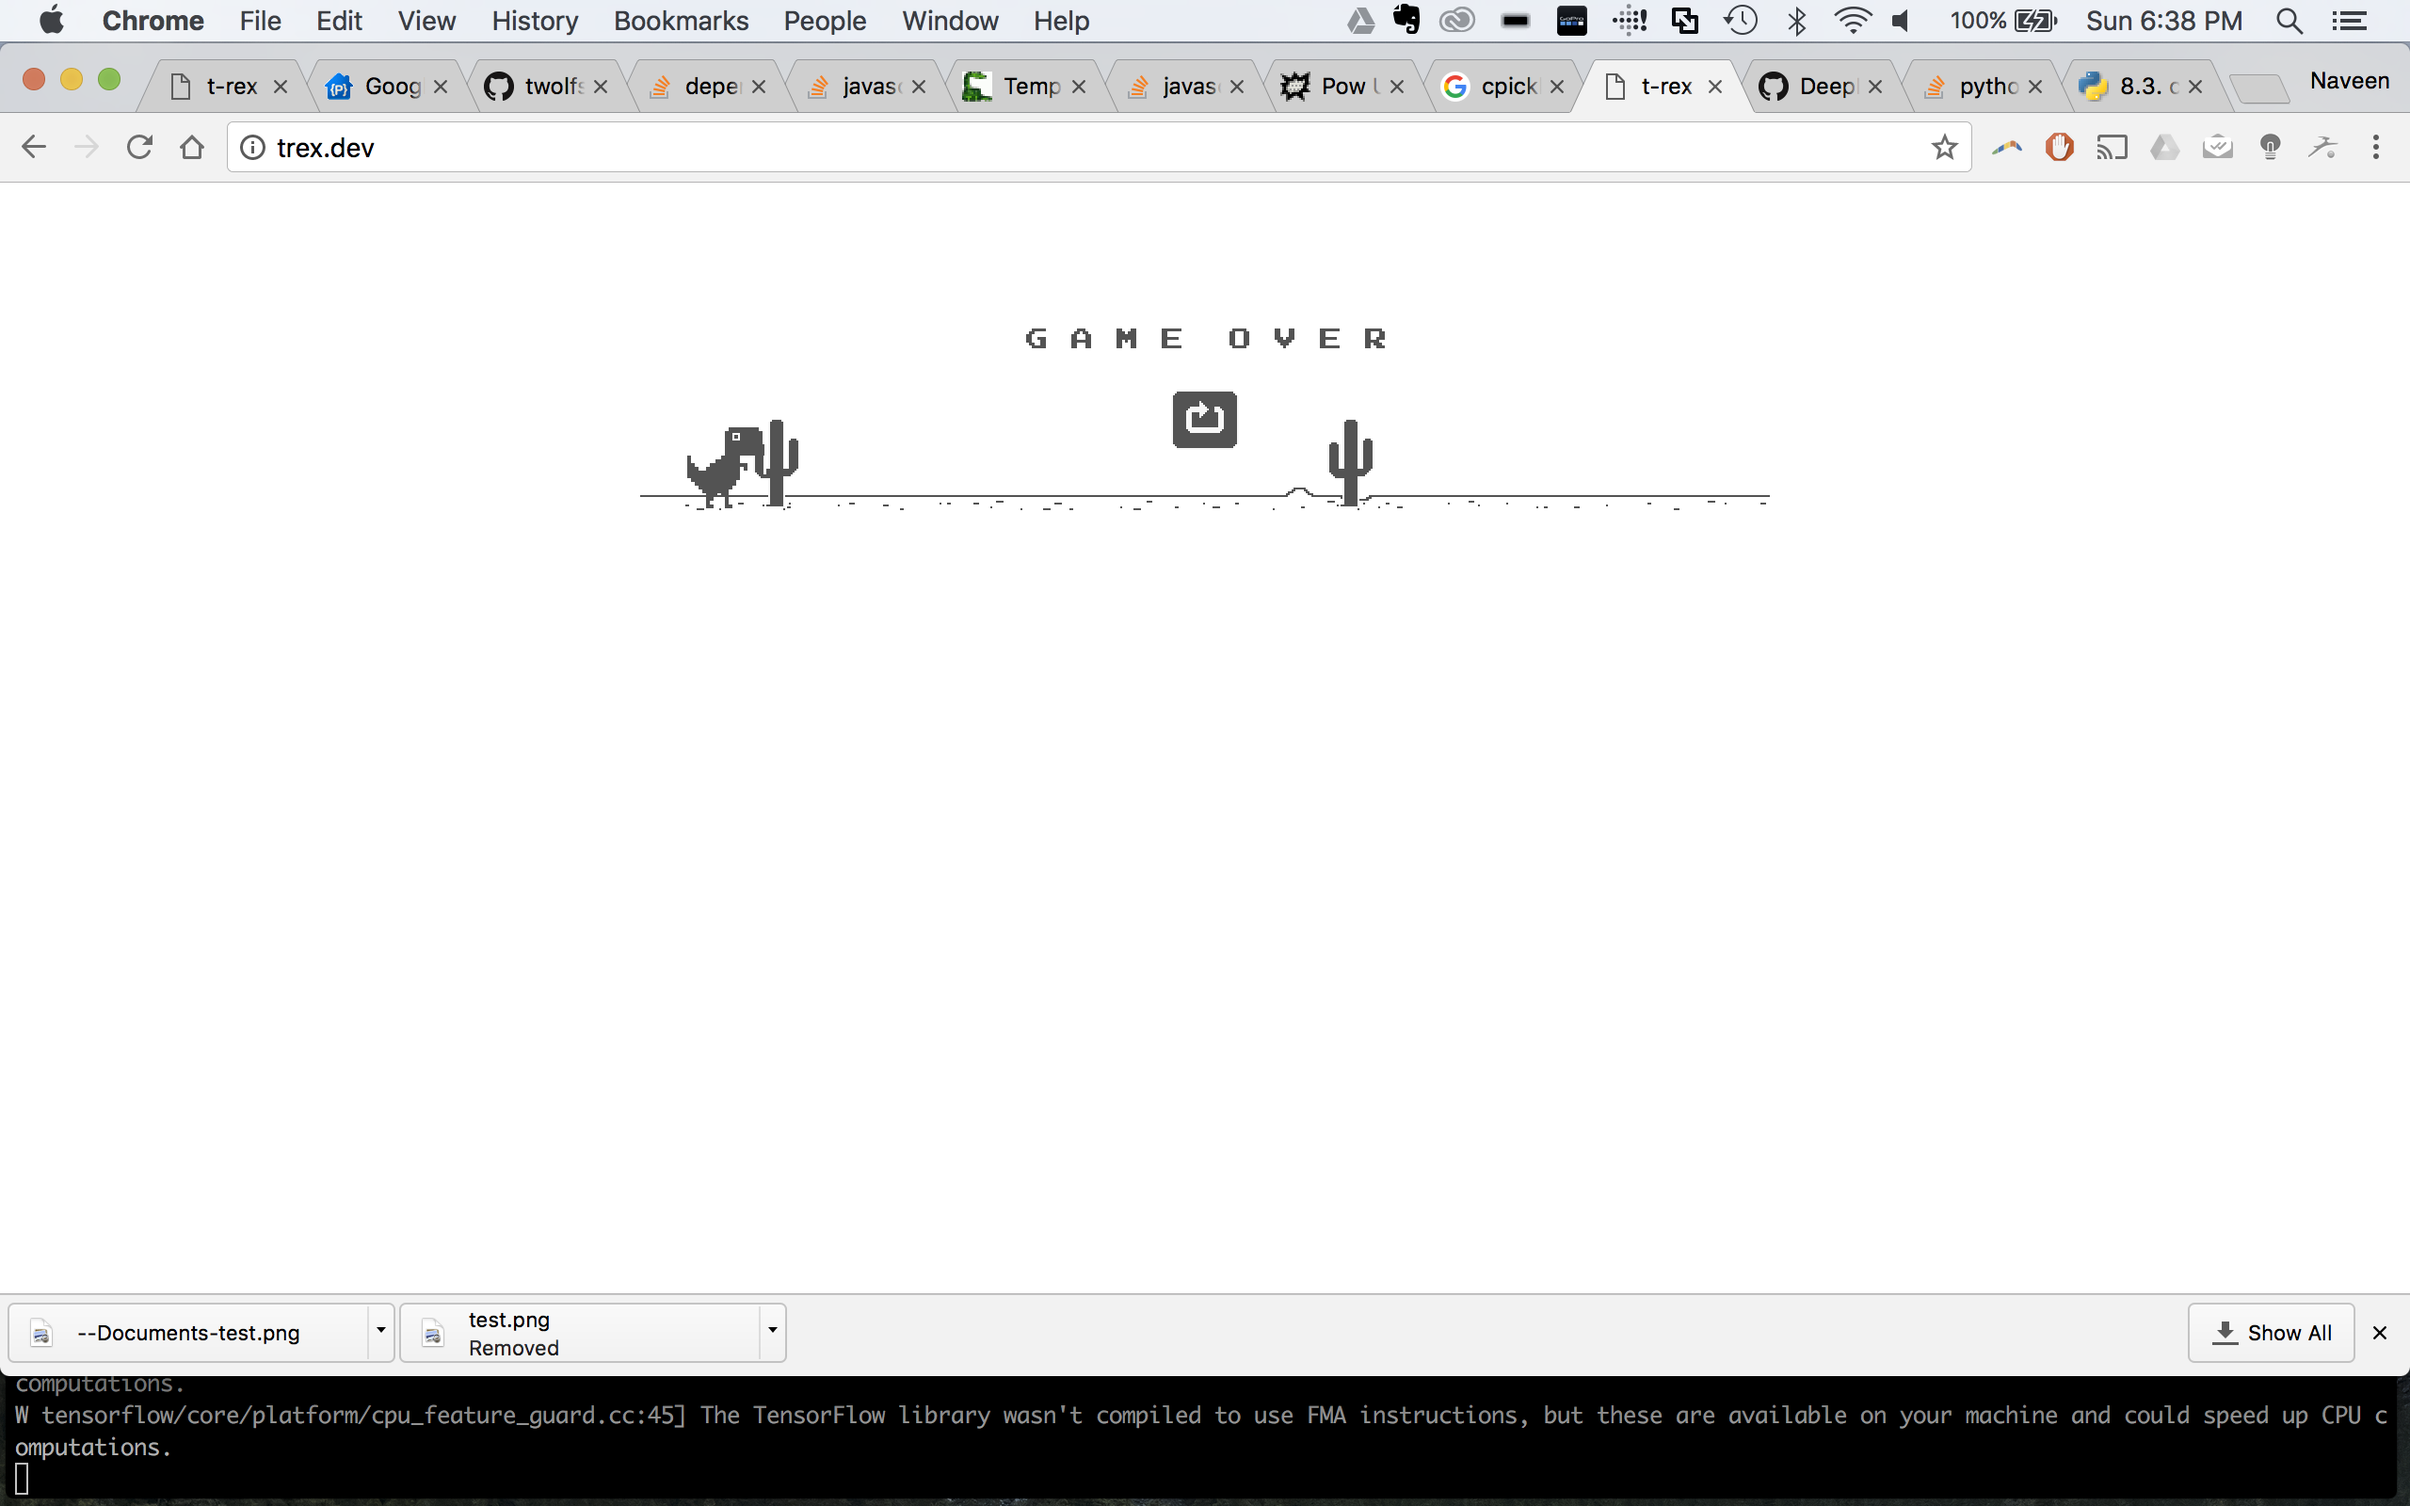
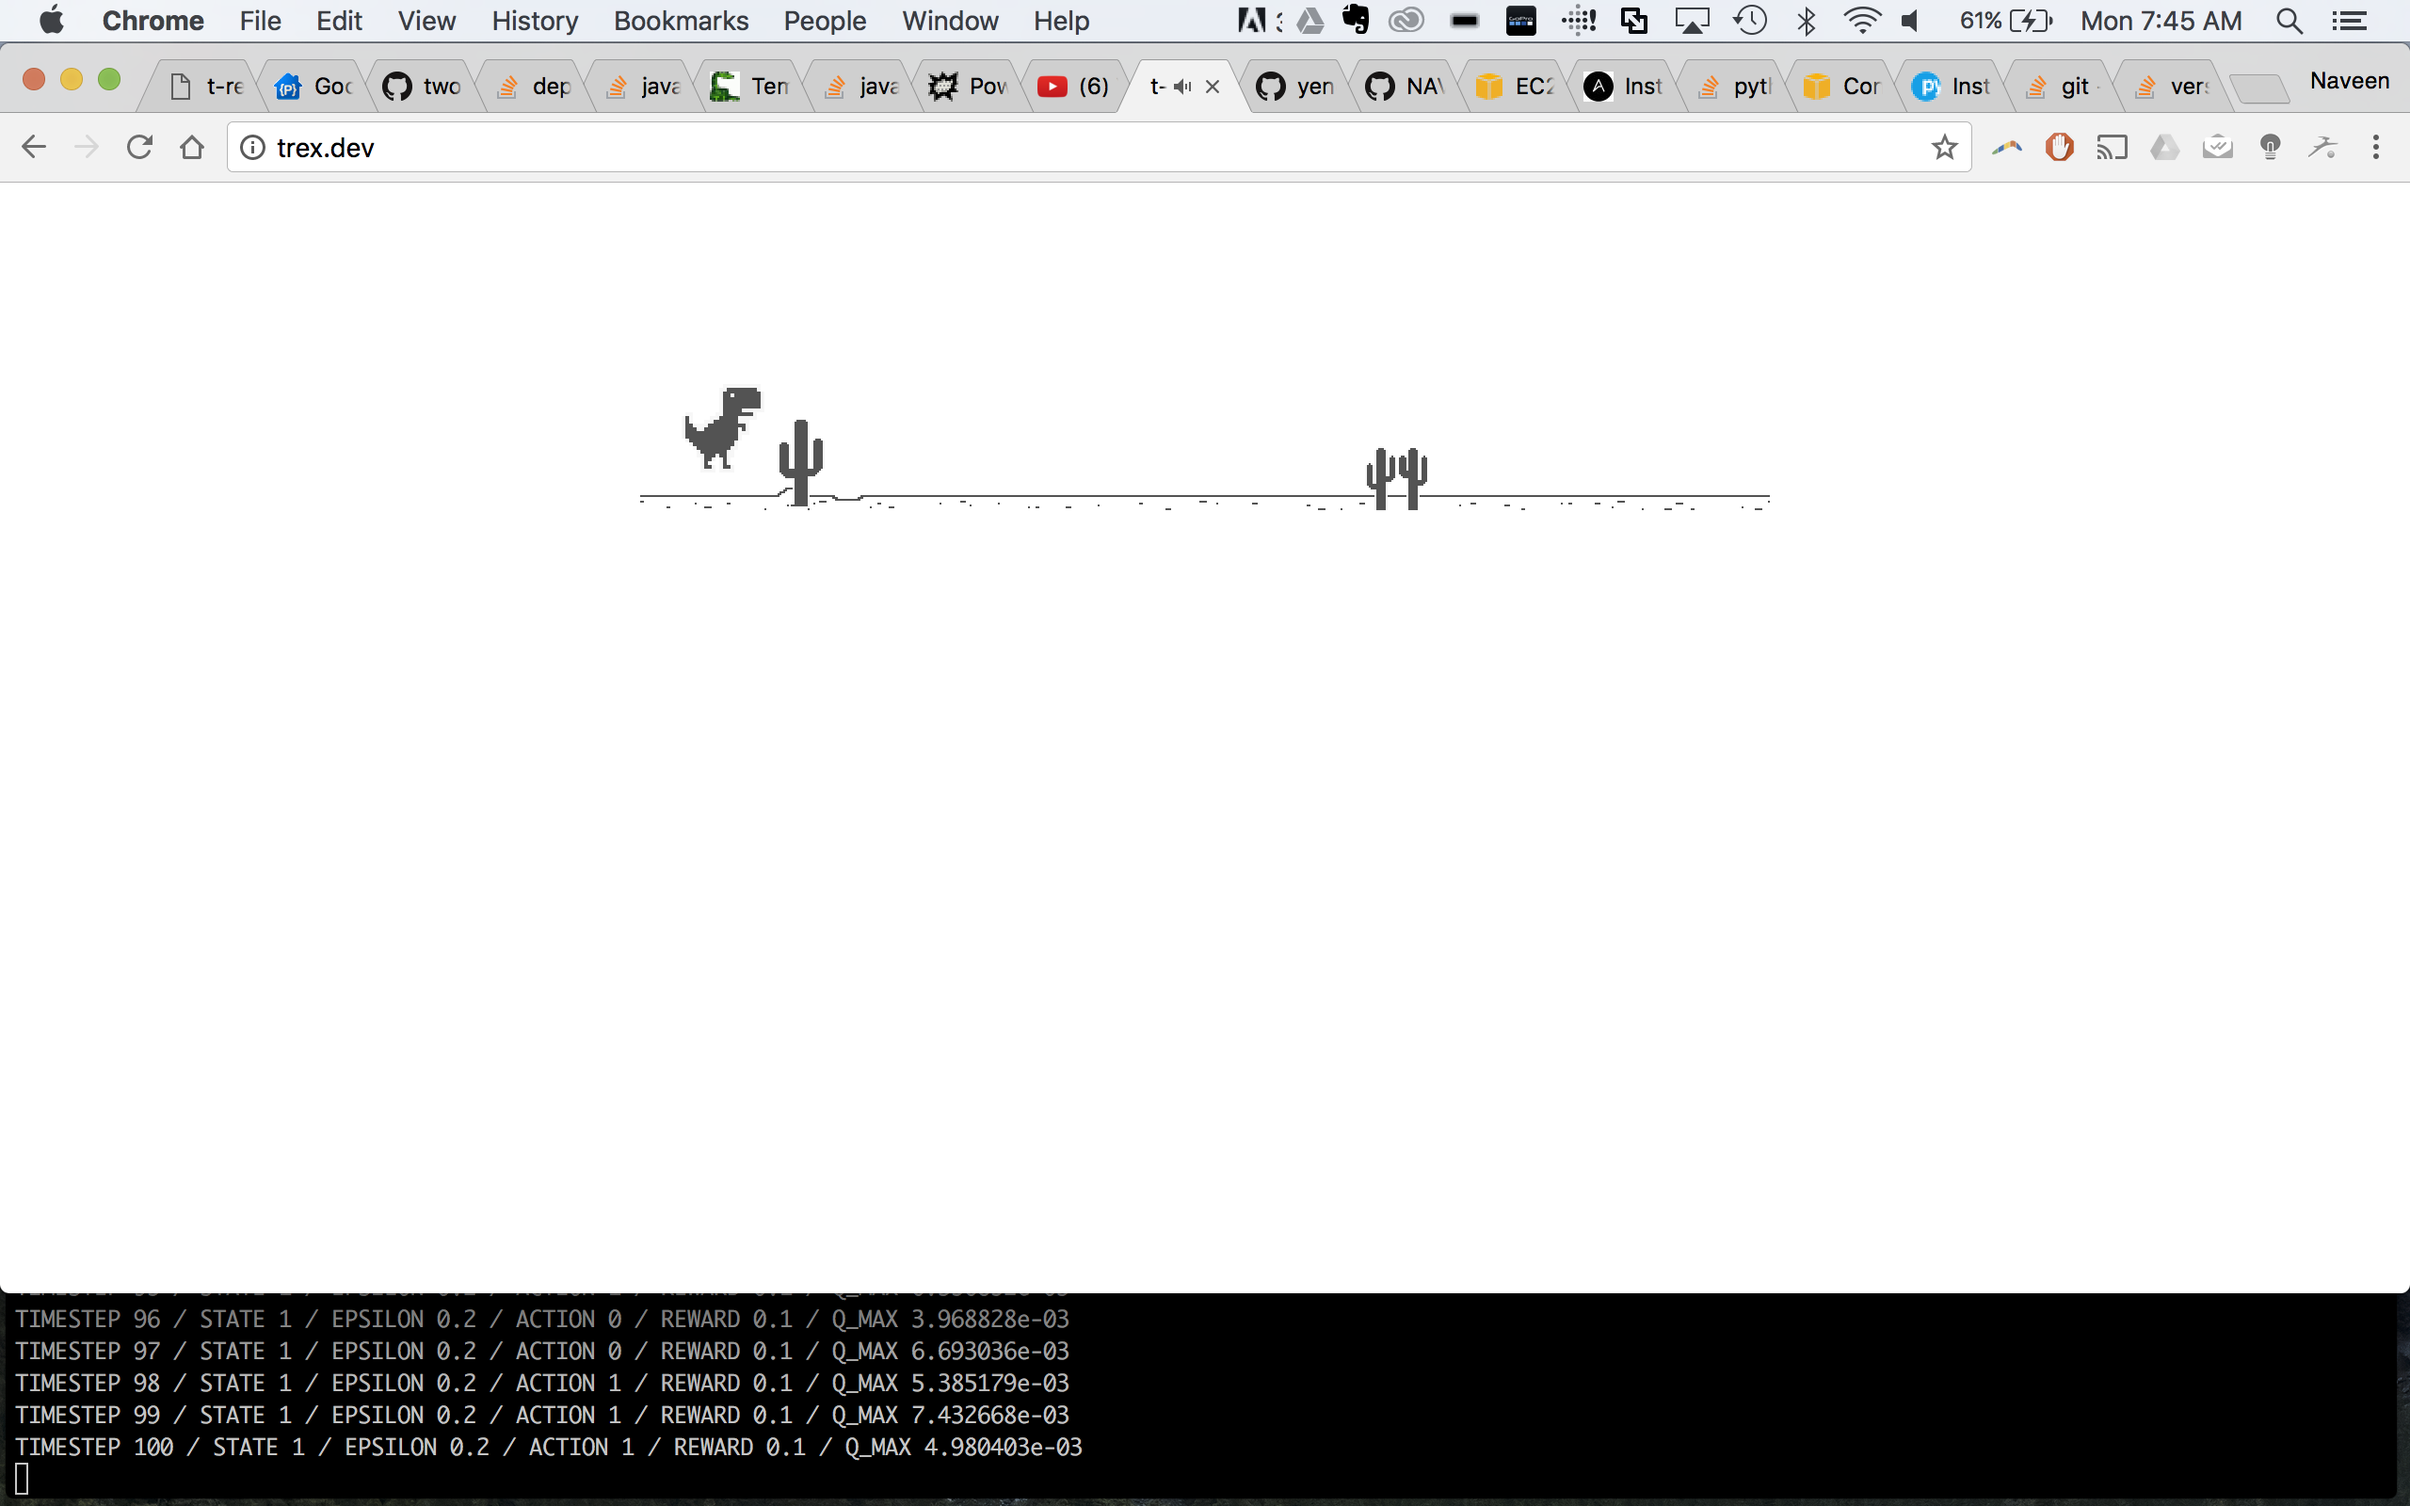
ver2

diff --git a/qlearn.py b/qlearn.py
@@ -26,7 +26,7 @@ create_fail_reference = False
 GAME                  = 'DINO' # the name of the game being played for log files
 ACTIONS               = 2 # number of valid actions
 GAMMA                 = 0.99 # decay rate of past observations
-OBSERVE               = 10. # timesteps to observe before training
+OBSERVE               = 100. # timesteps to observe before training
 REPLAY_MEMORY         = 5000 # number of previous transitions to remember
 BATCH                 = 32 # size of minibatch
 model_path            = "saved_model/"
@@ -161,7 +161,8 @@ def trainNetwork(s, readout, h_fc1, sess, mode):
 	number_of_obser = len(files)
 	filename = observation_data_path+"observation_"+str(number_of_obser+1)
 	if number_of_obser > 20:
-	    os.system("rm -rf "+observation_data_path+"*")
+	    files = sorted(os.listdir(observation_data_path), key=os.path.getctime)
+	    os.system("rm "+files[0])#remove oldest file
         with open(filename,'wb') as fp:
             pickle.dump(D,fp)
 
